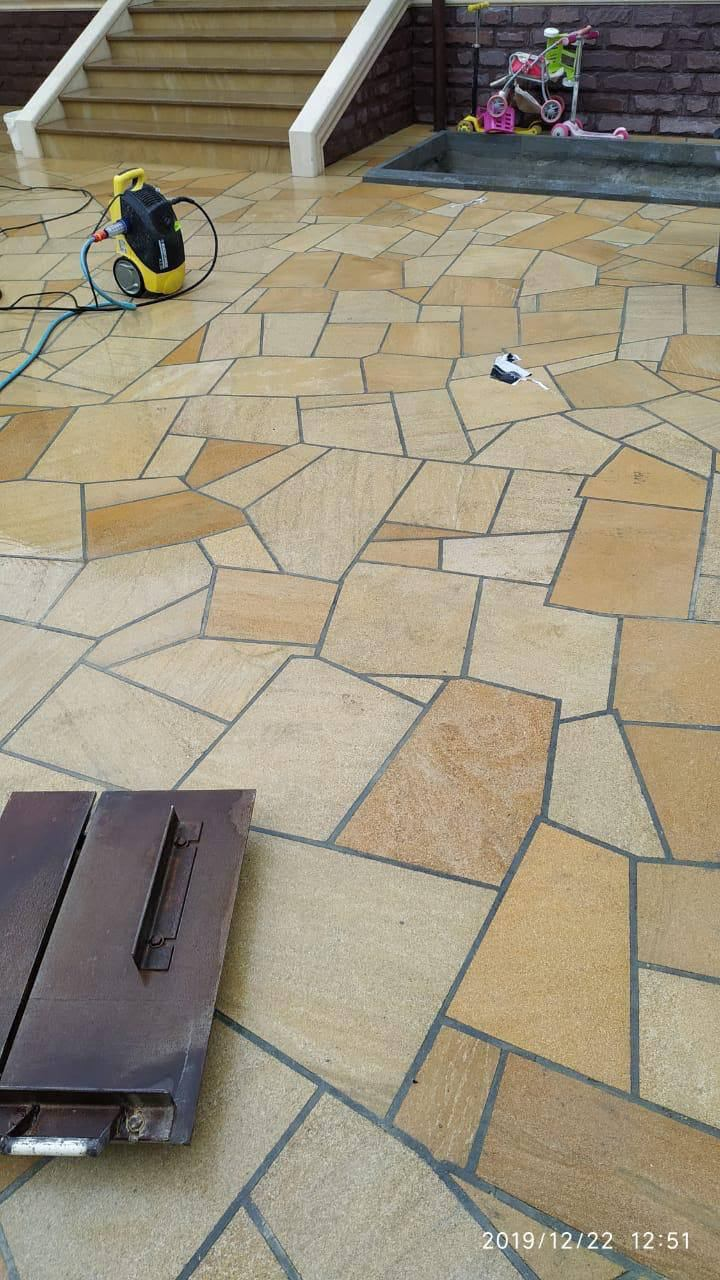
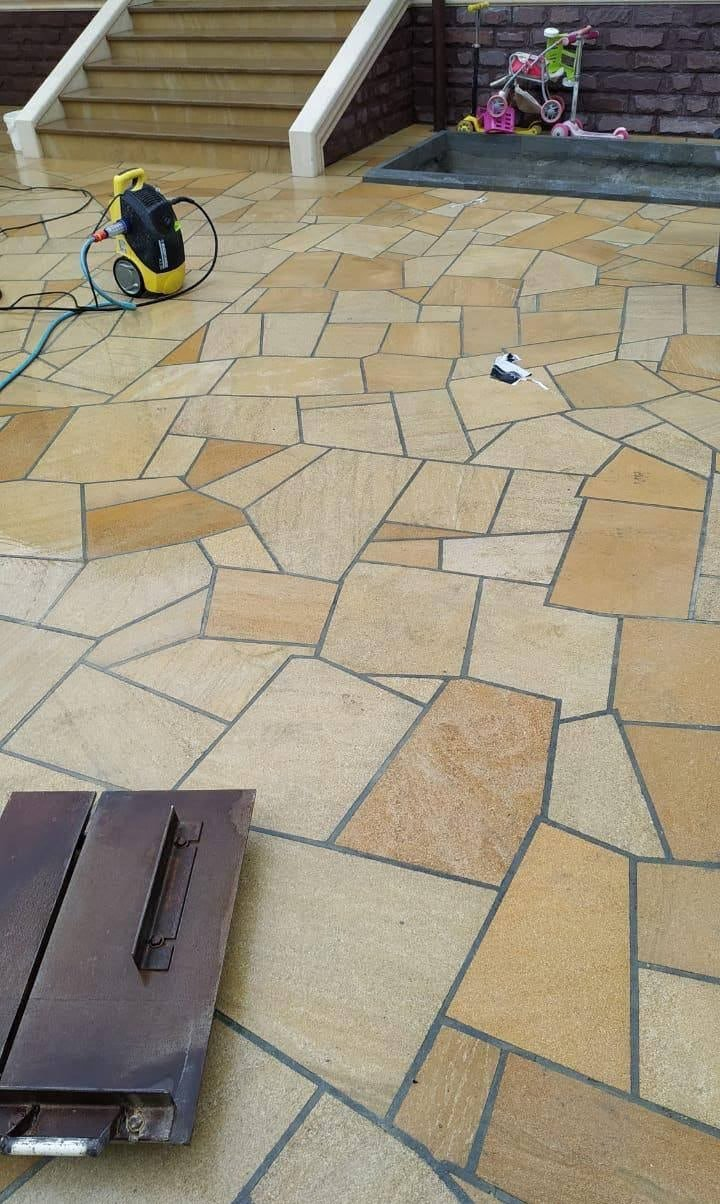
Replace two paving photos with clean crops

diff --git a/gallery.html b/gallery.html
@@ -1,1 +1,1 @@
-<!doctype html><html lang="ru"><head><meta charset="utf-8"><meta name="viewport" content="width=device-width,initial-scale=1"><meta name="theme-color" content="#111211"><meta name="description" content="Фотогалерея работ и объектов из дагестанского камня."><title>Галерея работ — СТИМУЛ-С</title><link rel="preconnect" href="https://fonts.googleapis.com"><link rel="preconnect" href="https://fonts.gstatic.com" crossorigin><link href="https://fonts.googleapis.com/css2?family=Manrope:wght@400;500;600;700;800&family=Playfair+Display:wght@500;600;700&display=swap" rel="stylesheet"><link rel="stylesheet" href="assets/site.css"></head><body><div class="announcement"><span>КАМЕНЬ · МОНТАЖ · ГАРАНТИЯ</span><a href="tel:+79258090999">+7 925 809-09-99 <b>↗</b></a></div><header class="header"><a class="brand" href="index.html"><span class="brand-mark">S<span>·</span></span><span>СТИМУЛ<small>КАМЕНЬ И ФАСАДЫ</small></span></a><button class="menu-toggle" aria-label="Открыть меню">☰</button><nav><a href="index.html">Главная</a><a href="stone.html">Камень и работы</a><a href="projects.html">Проекты</a><a class="active" href="gallery.html">Галерея</a><a href="contacts.html">Контакты</a></nav><a class="header-cta" href="contacts.html#request">Обсудить проект <span>↗</span></a></header><main><section class="subhero gallery-hero"><div class="subhero-inner"><div class="kicker"><i></i> РАБОТЫ ИЗ ДАГЕСТАНСКОГО КАМНЯ</div><h1>Камень в <em>деталях.</em></h1><p>Фасады, лестницы, мощение и декоративные элементы в наших проектах.</p></div></section><section class="photo-gallery-section"><div class="gallery-heading"><div><span class="section-label">ПОРТФОЛИО · 55 ФОТОГРАФИЙ</span><h2>Живые фактуры <em>и формы</em></h2></div><p>Нажмите на фотографию,<br>чтобы рассмотреть её крупнее.</p></div><div class="photo-gallery" id="photo-gallery" aria-live="polite"></div><div class="gallery-note"><span>↗</span><p>Хотите такой проект? Обсудим материал, оформление и монтаж.</p><a href="contacts.html#request">Оставить заявку</a></div></section><section class="cta-band"><div><span>ВАШ ДОМ — СЛЕДУЮЩАЯ ИСТОРИЯ</span><h2>Обсудим <em>фасад?</em></h2></div><a class="button button-light" href="contacts.html#request">Оставить заявку <span>↗</span></a></section></main><footer class="footer"><a class="brand" href="index.html"><span class="brand-mark">S<span>·</span></span><span>СТИМУЛ<small>КАМЕНЬ И ФАСАДЫ</small></span></a><p>Натуральный дагестанский камень.<br>От материала до готового фасада.</p><div><span>СВЯЗАТЬСЯ</span><a href="tel:+79258090999">+7 925 809-09-99</a><a href="contacts.html">Оставить заявку ↗</a></div><small>© СТИМУЛ-С · 2026</small></footer><div class="photo-lightbox" id="photo-lightbox" aria-hidden="true"><button class="lightbox-close" type="button" aria-label="Закрыть">×</button><button class="lightbox-prev" type="button" aria-label="Предыдущее фото">←</button><figure><img alt=""><figcaption></figcaption></figure><button class="lightbox-next" type="button" aria-label="Следующее фото">→</button></div><script src="assets/site.js"></script><script src="assets/gallery-stimul-s.js?v=55" defer></script></body></html>
+<!doctype html><html lang="ru"><head><meta charset="utf-8"><meta name="viewport" content="width=device-width,initial-scale=1"><meta name="theme-color" content="#111211"><meta name="description" content="Фотогалерея работ и объектов из дагестанского камня."><title>Галерея работ — СТИМУЛ-С</title><link rel="preconnect" href="https://fonts.googleapis.com"><link rel="preconnect" href="https://fonts.gstatic.com" crossorigin><link href="https://fonts.googleapis.com/css2?family=Manrope:wght@400;500;600;700;800&family=Playfair+Display:wght@500;600;700&display=swap" rel="stylesheet"><link rel="stylesheet" href="assets/site.css"></head><body><div class="announcement"><span>КАМЕНЬ · МОНТАЖ · ГАРАНТИЯ</span><a href="tel:+79258090999">+7 925 809-09-99 <b>↗</b></a></div><header class="header"><a class="brand" href="index.html"><span class="brand-mark">S<span>·</span></span><span>СТИМУЛ<small>КАМЕНЬ И ФАСАДЫ</small></span></a><button class="menu-toggle" aria-label="Открыть меню">☰</button><nav><a href="index.html">Главная</a><a href="stone.html">Камень и работы</a><a href="projects.html">Проекты</a><a class="active" href="gallery.html">Галерея</a><a href="contacts.html">Контакты</a></nav><a class="header-cta" href="contacts.html#request">Обсудить проект <span>↗</span></a></header><main><section class="subhero gallery-hero"><div class="subhero-inner"><div class="kicker"><i></i> РАБОТЫ ИЗ ДАГЕСТАНСКОГО КАМНЯ</div><h1>Камень в <em>деталях.</em></h1><p>Фасады, лестницы, мощение и декоративные элементы в наших проектах.</p></div></section><section class="photo-gallery-section"><div class="gallery-heading"><div><span class="section-label">ПОРТФОЛИО · 55 ФОТОГРАФИЙ</span><h2>Живые фактуры <em>и формы</em></h2></div><p>Нажмите на фотографию,<br>чтобы рассмотреть её крупнее.</p></div><div class="photo-gallery" id="photo-gallery" aria-live="polite"></div><div class="gallery-note"><span>↗</span><p>Хотите такой проект? Обсудим материал, оформление и монтаж.</p><a href="contacts.html#request">Оставить заявку</a></div></section><section class="cta-band"><div><span>ВАШ ДОМ — СЛЕДУЮЩАЯ ИСТОРИЯ</span><h2>Обсудим <em>фасад?</em></h2></div><a class="button button-light" href="contacts.html#request">Оставить заявку <span>↗</span></a></section></main><footer class="footer"><a class="brand" href="index.html"><span class="brand-mark">S<span>·</span></span><span>СТИМУЛ<small>КАМЕНЬ И ФАСАДЫ</small></span></a><p>Натуральный дагестанский камень.<br>От материала до готового фасада.</p><div><span>СВЯЗАТЬСЯ</span><a href="tel:+79258090999">+7 925 809-09-99</a><a href="contacts.html">Оставить заявку ↗</a></div><small>© СТИМУЛ-С · 2026</small></footer><div class="photo-lightbox" id="photo-lightbox" aria-hidden="true"><button class="lightbox-close" type="button" aria-label="Закрыть">×</button><button class="lightbox-prev" type="button" aria-label="Предыдущее фото">←</button><figure><img alt=""><figcaption></figcaption></figure><button class="lightbox-next" type="button" aria-label="Следующее фото">→</button></div><script src="assets/site.js"></script><script src="assets/gallery-stimul-s.js?v=clean-paving" defer></script></body></html>

diff --git a/assets/gallery-stimul-s.js b/assets/gallery-stimul-s.js
@@ -3,8 +3,12 @@
   const lightbox = document.querySelector('#photo-lightbox');
   if (!grid || !lightbox) return;
   // Keep the gallery photo of the scaffolded facade in 36.jpg.
-  const galleryImages = Array.from({ length: 36 }, (_, index) =>
-    `assets/gallery/${String(index + 1).padStart(2, '0')}.jpg`);
+  const cleanPavingPhotos = new Set(['01', '06']);
+  const galleryImages = Array.from({ length: 36 }, (_, index) => {
+    const number = String(index + 1).padStart(2, '0');
+    const version = cleanPavingPhotos.has(number) ? '?v=clean-paving' : '';
+    return `assets/gallery/${number}.jpg${version}`;
+  });
   const projectImages = Array.from({ length: 20 }, (_, index) =>
     `assets/gallery-extra/${String(index + 1).padStart(2, '0')}.webp`)
     .filter(src => src !== 'assets/gallery-extra/10.webp');
@@ -41,7 +45,9 @@
     const number = isGalleryPhoto ? current + 1 : current - galleryCount + 1;
     const total = isGalleryPhoto ? galleryCount : projectImages.length;
     const label = isGalleryPhoto ? 'ФОТОГРАФИЯ' : 'ПОРТФОЛИО · ФОТО';
-    caption.textContent = `${label} ${String(number).padStart(2, '0')} / ${total}`;
+    const hideCaption = isGalleryPhoto && cleanPavingPhotos.has(String(number).padStart(2, '0'));
+    caption.hidden = hideCaption;
+    caption.textContent = hideCaption ? '' : `${label} ${String(number).padStart(2, '0')} / ${total}`;
   }
   function open(index) {
     show(index);
